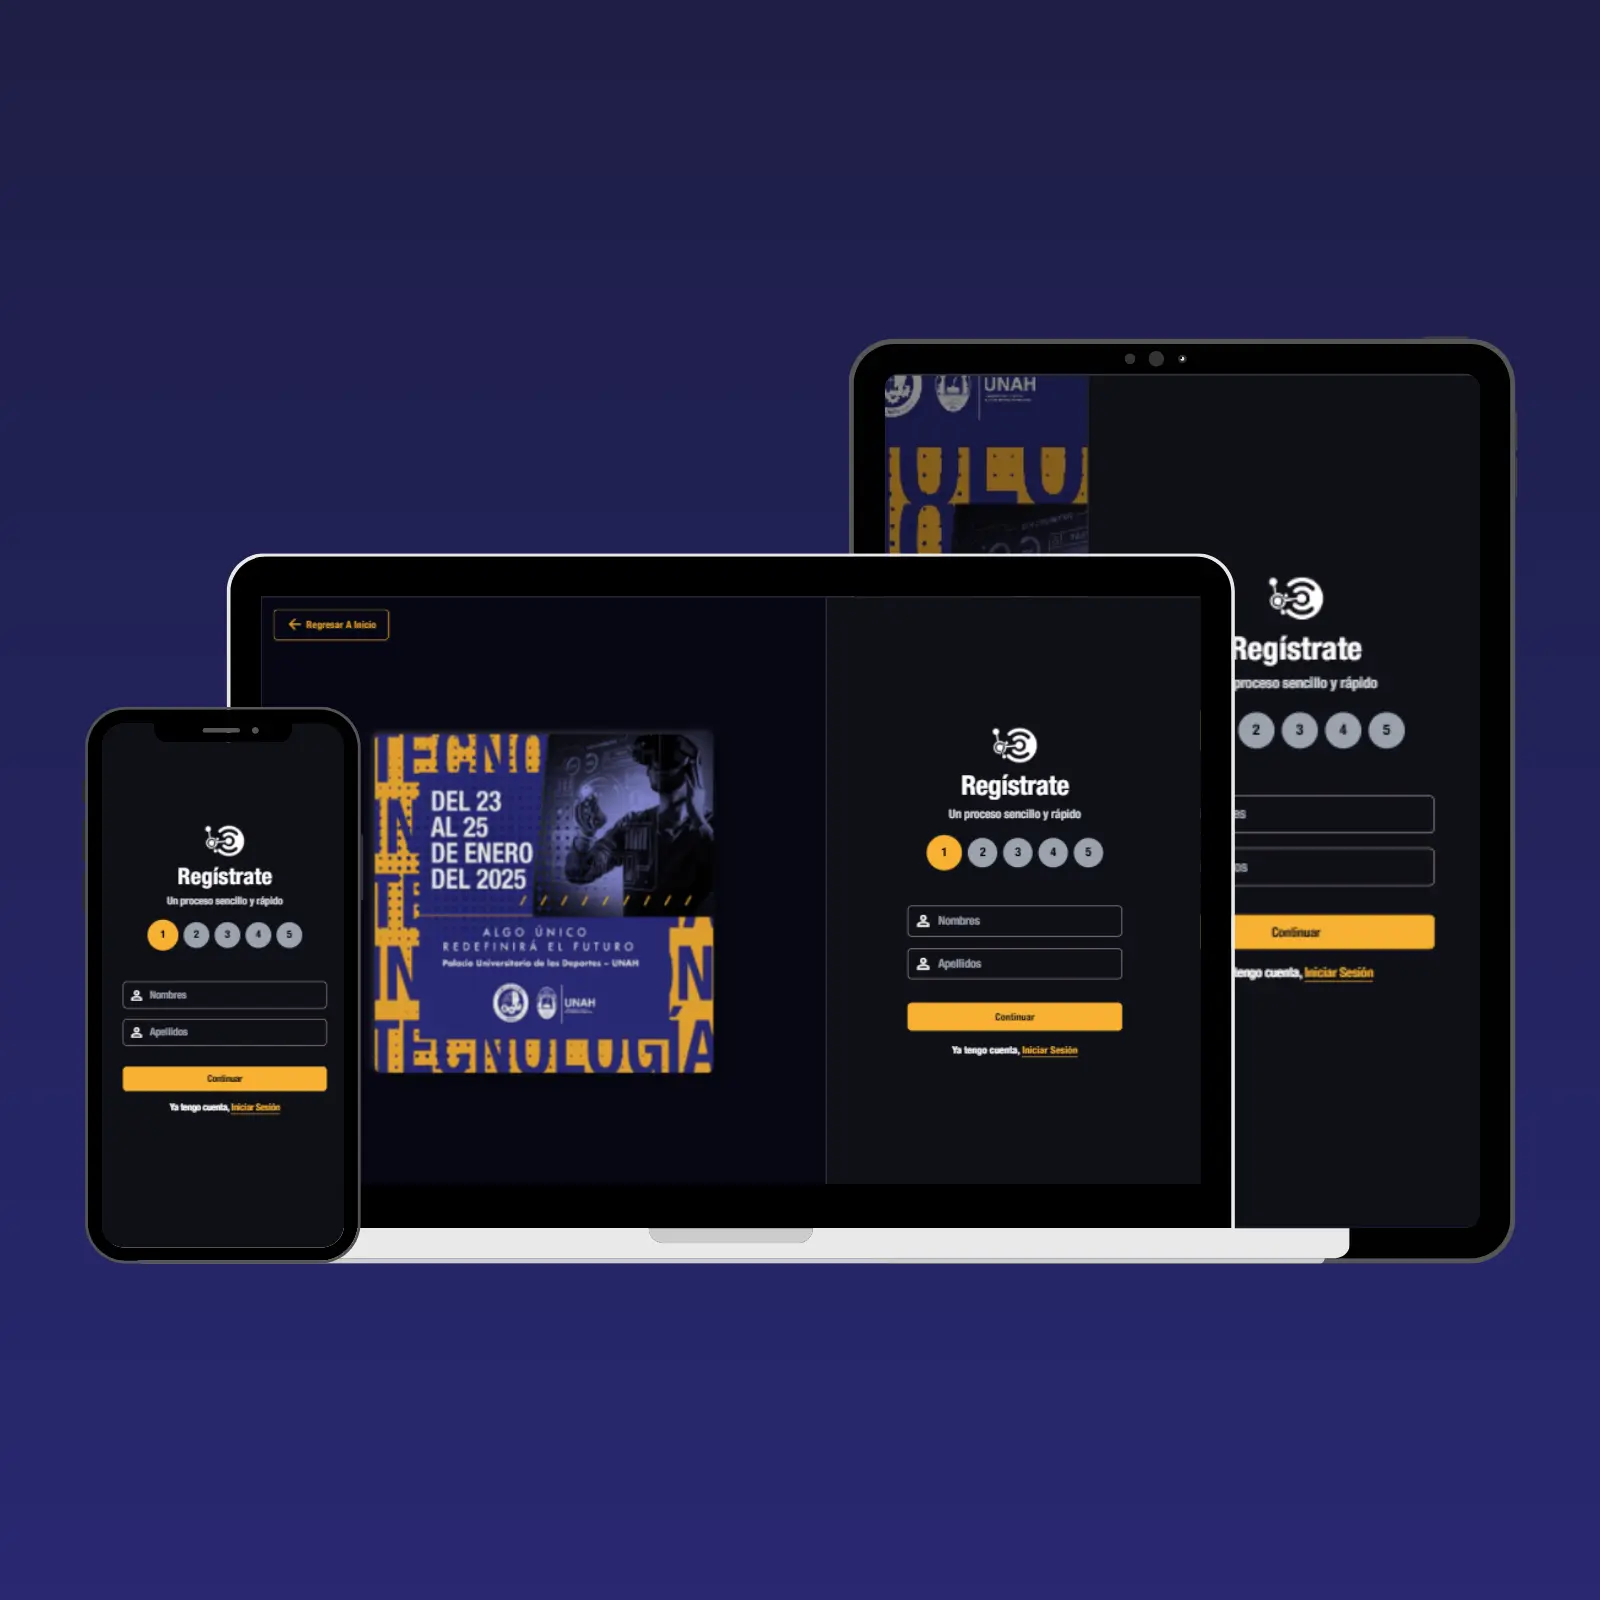
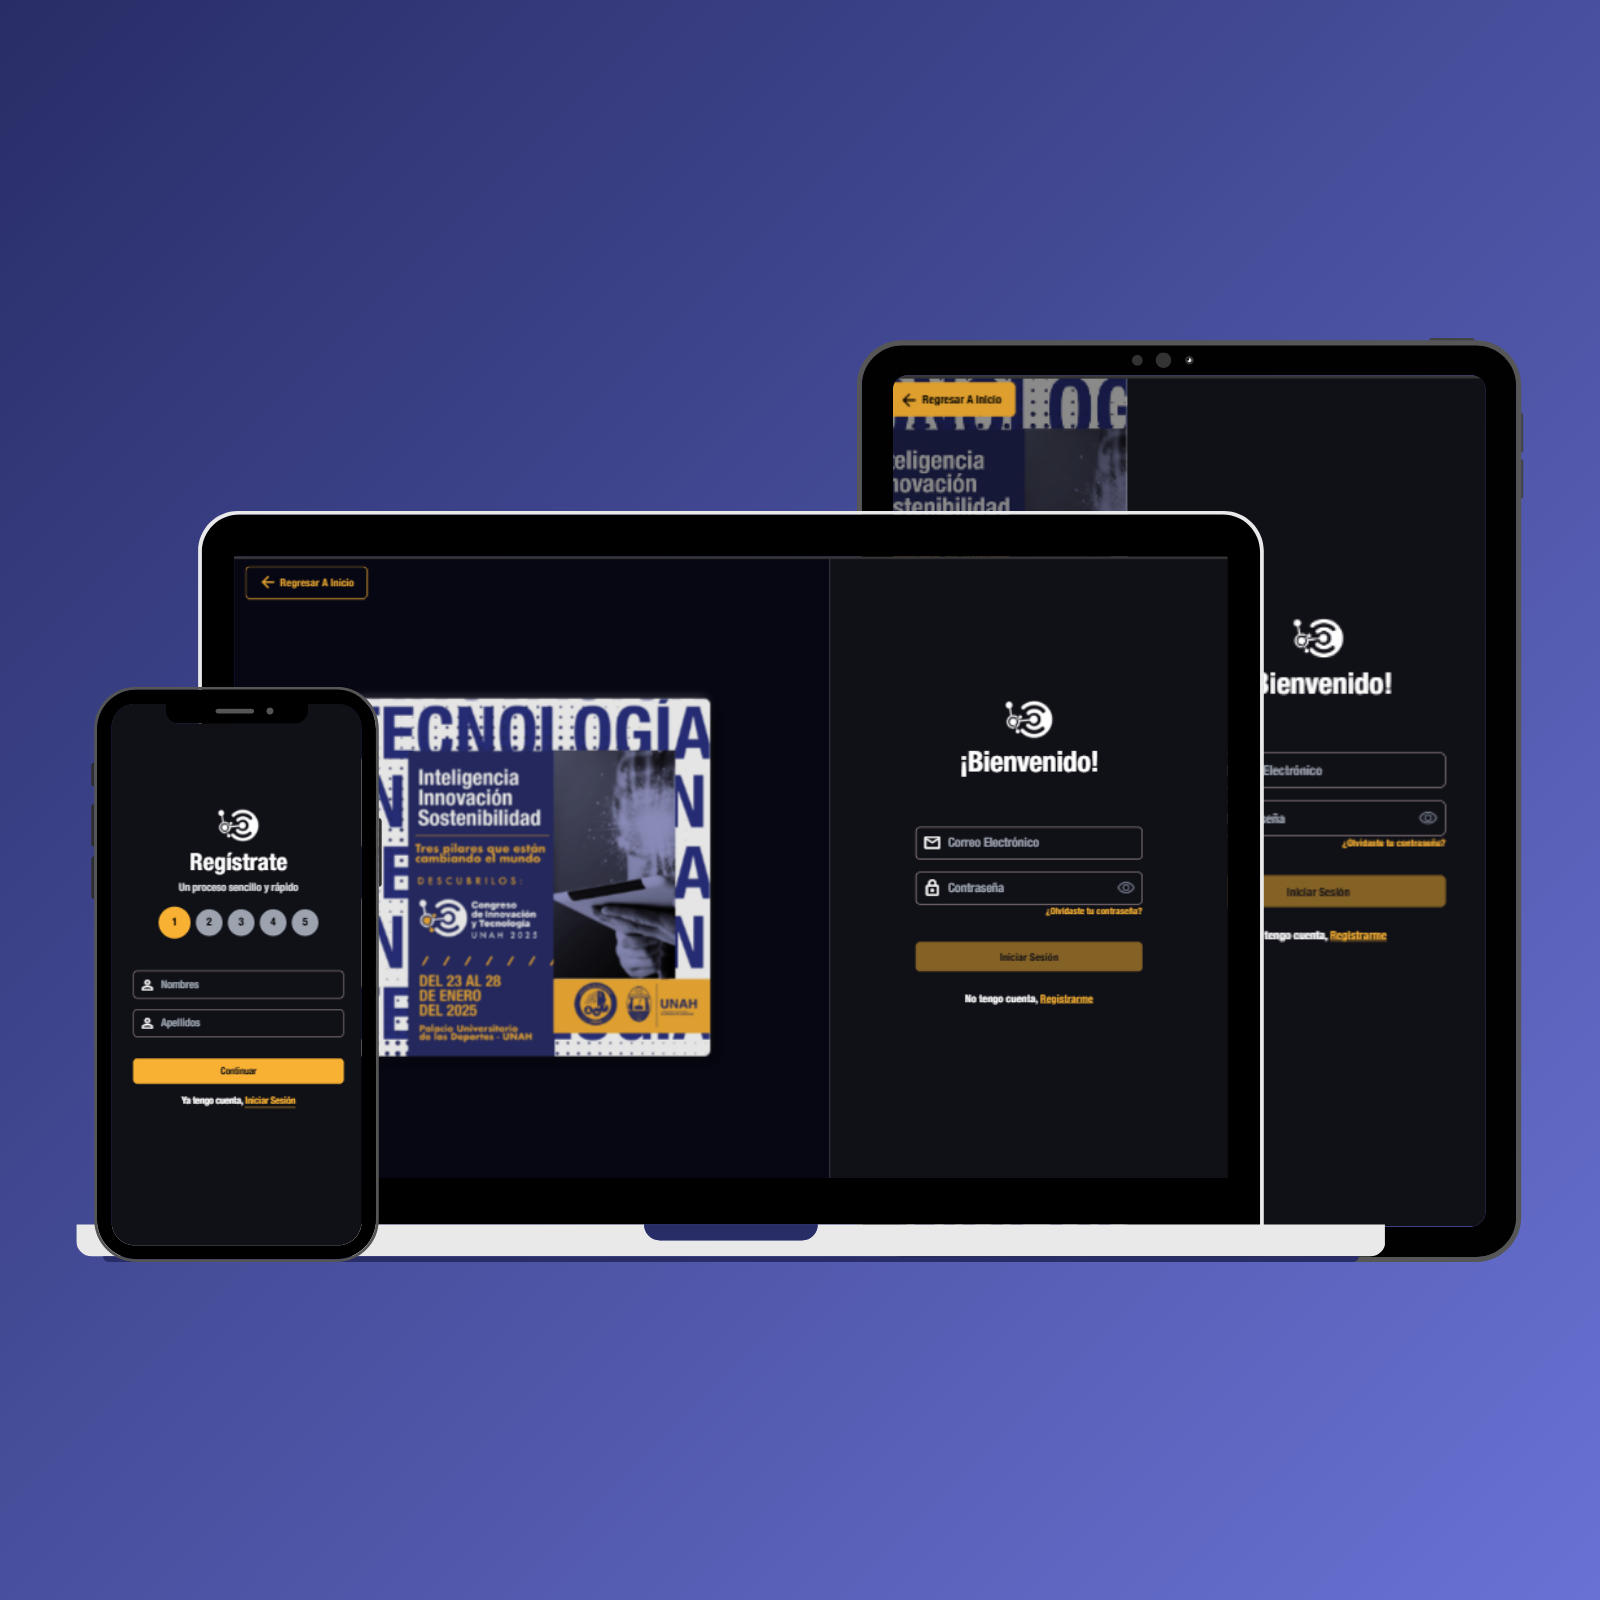
Agregando hs voae

diff --git a/src/app/page.tsx b/src/app/page.tsx
@@ -9,10 +9,13 @@ import Button from "@/components/Button";
 import { useRouter } from "next/navigation";
 import { showRegister } from "./login/actions";
 import Image from "next/image";
+import FloatingNotification from "@/components/FloatingNotification";
+import { NotificationProvider } from "./contexts/NotificationContext";
 
 export default function Home() {
   const router = useRouter();
   const [showRegisterButton, setShowRegisterButton] = useState(true);
+  const [showNotification, setShowNotification] = useState(false);
 
   useEffect(() => {
     const checkRegister = async () => {
@@ -45,7 +48,13 @@ export default function Home() {
               if (entry.isIntersecting) {
                 entry.target.classList.add(animationClass);
                 observer.unobserve(entry.target);
+
+                if (!showNotification && entry.target.id === "pago") {
+                  console.log("showing notification");
+                  setShowNotification(true);
+                }
               }
+
             });
           },
           { threshold: 0 }
@@ -128,20 +137,24 @@ export default function Home() {
           <div className="absolute inset-0 bg-black bg-opacity-70"></div>
         </div>
 
-        <h1 className="absolute top-1/3 xl:top-1/4 -translate-y-1/2 transform text-4xl sm:text-5xl md:text-6xl lg:text-7xl leading-tight text-white text-shadow-lg opacity-0 translate-y-10 animate-slide-up px-4 ml-8 tracking-widest">
+        <h1 className="absolute top-1/3 xl:top-1/4 -translate-y-1/2 transform text-5xl sm:text-5xl md:text-7xl lg:text-7xl leading-tight text-white text-shadow-lg opacity-0 translate-y-10 animate-slide-up px-4 ml-8 tracking-widest">
           CONGRESO DE <br />
           INNOVACIÓN Y <br />
           TECNOLOGÍA <br />
+          <p className="text-[#f8b133] text-lg md:text-2xl text-shadow-none montserrat-font">
+            DEL 23 AL 28 DE ENERO
+          </p>
           <span className="text-[#f8b133] text-shadow-none montserrat-font typing-effect">
             UNAH 2025
           </span>
+
           {showRegisterButton && (
             <Button
               text="Registrarme ahora"
               action={() => router.push("/register")}
               variant="primary"
               styleType="outlined"
-              className="mt-4 tracking-wide"
+              className="sm:mt-6 md:mt-10 lg:mt-4 tracking-wide"
             >
               <span className="material-symbols-outlined">
                 account_circle
@@ -151,17 +164,21 @@ export default function Home() {
         </h1>
 
       </header>
+
+      <NotificationProvider>
+        {showNotification && <FloatingNotification msg={"Si eres estudiante de la UNAH, se te otorgarán 35 horas VOAE (15 académicas, 15 sociales y 5 culturales) a quienes hayan acumulado al menos el 80% de asistencia."} showBottom={true} />}
+      </NotificationProvider>
       <div className="h-16 w-full bg-gradient-to-b from-[#010101] to-[#101017] overflow-hidden">
       </div>
 
       {/* Contenido principal */}
       <main className="w-4/5 mx-auto">
         {/* seccion de invitacion a descargar cronograma */}
-        <section className="w-full mt-12 xl:mt-0 xl:h-screen flex flex-col lg:flex-row items-center justify-center gap-12 px-8 animate-from-right sm:flex-col-reverse opacity-0 translate-x-[80px]">
+        <section className="w-full mt-12 xl:mt-0 xl:h-screen flex flex-col lg:flex-row items-center justify-center gap-12 px-8 animate-from-right sm:flex-col-reverse opacity-0 translate-x-[80px]" id="cron">
           <img
-            src="/img/landing/promo2.jpg"
+            src="/img/landing/promo2.webp"
             alt="Cronograma del evento"
-            className="rounded-tl-[40px] rounded-br-[40px] w-full md:w-[50%] max-w-[450px] shadow-[8px_8px_15px_rgba(0,0,0,0.5),-4px_-4px_10px_rgba(255,255,255,0.2)]"
+            className="rounded-xl w-full md:w-[50%] max-w-[450px] shadow-[8px_8px_15px_rgba(0,0,0,0.5),-4px_-4px_10px_rgba(255,255,255,0.2)]"
           />
           <div className="flex flex-col gap-8 text-center md:text-left text-3xl md:text-6xl leading-none">
             <h2 className="text-center lg:text-left">Inteligencia, Innovación y
@@ -209,7 +226,7 @@ export default function Home() {
           <img
             src="/img/landing/nuestro-objetivo.webp"
             alt="Cronograma del evento"
-            className="rounded-tl-[40px] rounded-tr-sm rounded-br-[40px] w-full md:w-[50%] max-w-[450px] shadow-[8px_8px_15px_rgba(0,0,0,0.5),-4px_-4px_10px_rgba(255,255,255,0.2)]"
+            className="rounded-xl w-full md:w-[50%] max-w-[450px] shadow-[8px_8px_15px_rgba(0,0,0,0.5),-4px_-4px_10px_rgba(255,255,255,0.2)]"
           />
         </section>
 
@@ -217,7 +234,7 @@ export default function Home() {
           <img
             src="/img/landing/all-devices.webp"
             alt="Cronograma del evento"
-            className="rounded-tl-[40px] rounded-br-[40px] w-full md:w-[50%] max-w-[450px] shadow-[8px_8px_15px_rgba(0,0,0,0.5),-4px_-4px_10px_rgba(255,255,255,0.2)]"
+            className="rounded-xl w-full md:w-[50%] max-w-[450px] shadow-[8px_8px_15px_rgba(0,0,0,0.5),-4px_-4px_10px_rgba(255,255,255,0.2)]"
           />
           <div className="flex flex-col gap-8 text-center md:text-left text-3xl md:text-6xl leading-none">
             <h2 className="text-center lg:text-left">¿Cómo me inscribo?</h2>
@@ -243,12 +260,12 @@ export default function Home() {
                     1
                   </p>
                   <div className="text-center md:text-left md:flex-1">
-                    <h3 className="font-semibold">Recoge tu orden</h3>
+                    <h3 className="font-semibold">Recoge tu orden de pago</h3>
                     <p>
                       Disponible solo <strong>20 y 21 de enero</strong> en:
                     </p>
                     <ul className="list-disc list-inside mt-2">
-                      <li>Facultad de Ingeniería.</li>
+                      <li>Entrada de la Facultad de Ingeniería.</li>
                       <li>Decanatura de Ciencias Económicas.</li>
                       <li>Recepción Académica del Polideportivo.</li>
                     </ul>
@@ -272,7 +289,7 @@ export default function Home() {
                   <div className="text-center md:text-left md:flex-1">
                     <h3 className="font-semibold">Guarda el comprobante</h3>
                     <p>
-                      Fotografía tu recibo para subirlo en la app.
+                      Fotografía tu recibo para subirlo al hacer tu registro.
                     </p>
                   </div>
                 </li>
@@ -283,7 +300,7 @@ export default function Home() {
                   <div className="text-center md:text-left md:flex-1">
                     <h3 className="font-semibold">Completa tu registro</h3>
                     <p>
-                      Sube tu comprobante y registra tus datos.
+                      Registra tus datos y sube tu comprobante de pago en esta aplicación.
                     </p>
                   </div>
                 </li>
@@ -296,6 +313,9 @@ export default function Home() {
             </div>
           </div>
         </section>
+        <div>
+        </div>
+
 
         <div className="w-full min-h-screen flex flex-col bg-[101017]">
           <div className="bg-[101017] flex-grow w-full mt-10">
@@ -332,7 +352,7 @@ export default function Home() {
             <li>
             </li>
             <li>
-              <strong>Email:</strong> congresodeinnovacionunah@gmail.com
+              <strong>Correo:</strong> congresodeinnovacionunah@gmail.com
             </li>
             <li>
               <strong>Dirección:</strong> Ciudad Universitaria, Tegucigalpa, Honduras

diff --git a/src/app/layouts/preHomeLayout.tsx b/src/app/layouts/preHomeLayout.tsx
@@ -7,27 +7,29 @@ export default function PreHomeLayout({ children }: { children: React.ReactNode 
     return (
         <div className="flex min-h-screen">
             {/* banner izquierdo */}
-            <div className="w-full md:w-2/5 xl:w-3/5 hidden md:grid md:bg-[url('/img/landing/promo.enc')] md:bg-repeat md:bg-center md:bg-black md:brightness-90 xl:bg-[#080816] xl:bg-none z-10 relative">
+            <div className="w-full md:w-2/5 xl:w-3/5 hidden md:grid md:bg-[url('/img/landing/promo2.webp')] md:bg-repeat md:bg-[length:500px_500px] md:bg-top md:bg-black md:brightness-90 xl:bg-[#080816] xl:bg-none z-10 relative">
+
                 <div className="hiddden md:absolute inset-0 bg-black bg-opacity-40 z-10 xl:hidden"></div>
                 <Button
-                    text='Regresar a Inicio'
+                    text="Regresar a Inicio"
                     action={() => window.location.href = '/'}
-                    variant='primary'
-                    styleType='outlined'
-                    type='button'
-                    className='fixed left-4 top-4 z-10 py-1'
+                    variant="primary"
+                    styleType="outlined"
+                    type="button"
+                    className="fixed left-4 top-4 z-10 py-1 md:text-[#000] md:bg-[#F8B133]lg:bg-transparent lg:text-[#F8B133]"
                 >
                     <span className="material-symbols-outlined">
                         arrow_back
-                    </span></Button>
+                    </span>
+                </Button>
 
-{/*                 <button className='absolute left-4 top-4 z-10 bg-white'>Regresar a landing </button>
- */}                <img
-                    src="/img/landing/promo2.jpg"
+                <img
+                    src="/img/landing/promo2.webp"
                     alt="login ilustracion"
                     className="w-[60%] rounded-lg shadow-[8px_8px_15px_rgba(0,0,0,0.5),-4px_-4px_10px_rgba(255,255,255,0.2)] fade-in-up place-self-center hidden xl:block"
                 />
             </div>
+
 
 
             {/* formulario de login */}

diff --git a/src/components/FloatingNotification.tsx b/src/components/FloatingNotification.tsx
@@ -2,14 +2,14 @@ import React from 'react';
 import { motion, AnimatePresence } from 'framer-motion';
 import { useNotification } from '@/app/contexts/NotificationContext';
 
-export default function FloatingNotification() {
+export default function FloatingNotification({msg, showBottom = false} : {msg: string, showBottom?: boolean}) {
     const { isNotificationVisible, hideNotification } = useNotification();
 
     return (
         <AnimatePresence>
             {isNotificationVisible && (
                 <motion.div
-    className="fixed top-4 right-4 montserrat-font text-white p-4 rounded-lg shadow-2xl w-full max-w-xs sm:max-w-sm md:max-w-md lg:max-w-lg xl:w-96 z-50"
+    className={`fixed ${showBottom ? 'bottom-4' : 'top-4'} right-4 montserrat-font text-white p-4 rounded-lg shadow-2xl w-full max-w-xs sm:max-w-sm md:max-w-md lg:max-w-lg xl:w-96 z-50`}
     style={{
         backgroundImage: 'url(/img/bg/sol.webp)',
         backgroundSize: 'cover',
@@ -34,9 +34,10 @@ export default function FloatingNotification() {
 >
                     <div className="flex items-center justify-between w-full p-4 rounded-lg">
                         <div className="flex items-center gap-3">
-                            <span className="text-lg leading-6 xl:leading-5"> 
+{/*                             <span className="text-lg leading-6 xl:leading-5"> 
                             Verifica cuidadosamente la exactitud de <span className='font-extrabold'>todos tus datos personales</span>. Estos se usarán para generar certificados oficiales. 
-                            </span>
+                            </span> */}
+                            {msg}
                         </div>
                         <button
                             onClick={hideNotification}

diff --git a/src/app/my/layout.tsx b/src/app/my/layout.tsx
@@ -23,7 +23,7 @@ export default function Home({ children }: HomeProps) {
         <NotificationProvider>
             <HomeLayout navOptions={navOptions}>
                 {/* Mostrar la notificación flotante */}
-                <FloatingNotification />
+                <FloatingNotification msg={"Verifica cuidadosamente la exactitud de todos tus datos personales. Estos se usarán para generar certificados oficiales."} />
                 {children}
             </HomeLayout>
         </NotificationProvider>

diff --git a/src/components/ejes_tematicos.tsx b/src/components/ejes_tematicos.tsx
@@ -66,7 +66,7 @@ export default function Carousel() {
         {carouselItems.map((item) => (
           <div
             key={item.id}
-            className="min-w-full flex-shrink-0 flex items-center justify-center relative h-full rounded-sm"
+            className="min-w-full flex-shrink-0 flex items-center justify-center relative h-full md:h-92 lg:h-full rounded-sm"
           >
             {/* Imagen */}
             <div className="relative w-full h-full rounded-sm">
